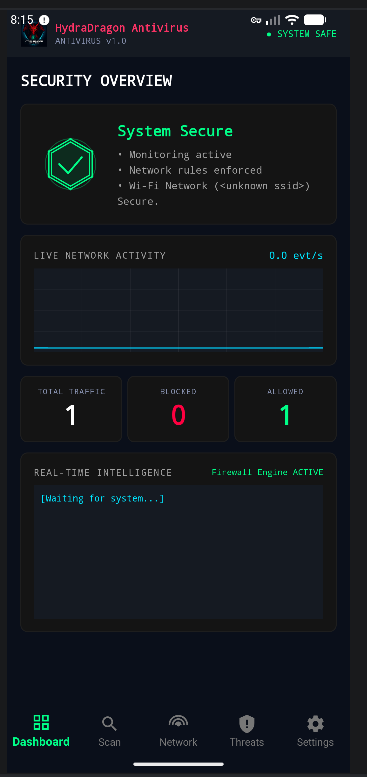
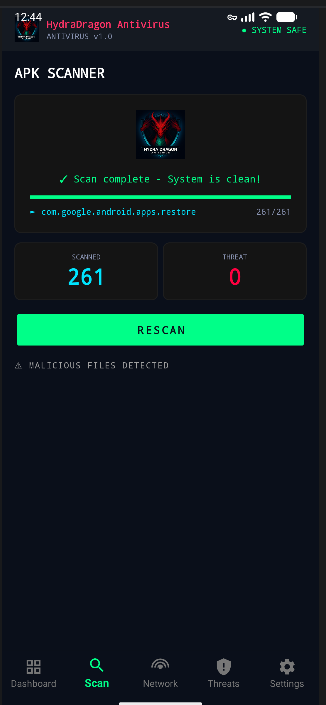
1.0.1

diff --git a/app/src/main/java/com/hydradragon/antivirus/ui/SettingsFragment.java b/app/src/main/java/com/hydradragon/antivirus/ui/SettingsFragment.java
@@ -383,7 +383,7 @@ public class SettingsFragment extends Fragment {
     }
     private void addAbout() {
         TextView v = new TextView(getContext());
-        v.setText("HydraDragon Antivirus v1.0\n━━━━━━━━━━━━━━━━━━━━━━\n\n" +
+        v.setText("HydraDragon Antivirus v1.0.1\n━━━━━━━━━━━━━━━━━━━━━━\n\n" +
             "[ GELİŞTİRİCİLER ]\n\n  ◈  Musayev Yusif\n  ◈  Emirhan Uçan\n\n" +
             "━━━━━━━━━━━━━━━━━━━━━━\n" +
             "Engine : XOR Filter (Binary-Fuse) + X.509\nAI : Native Rust (MinHash/LSH + Isolation Forest)");